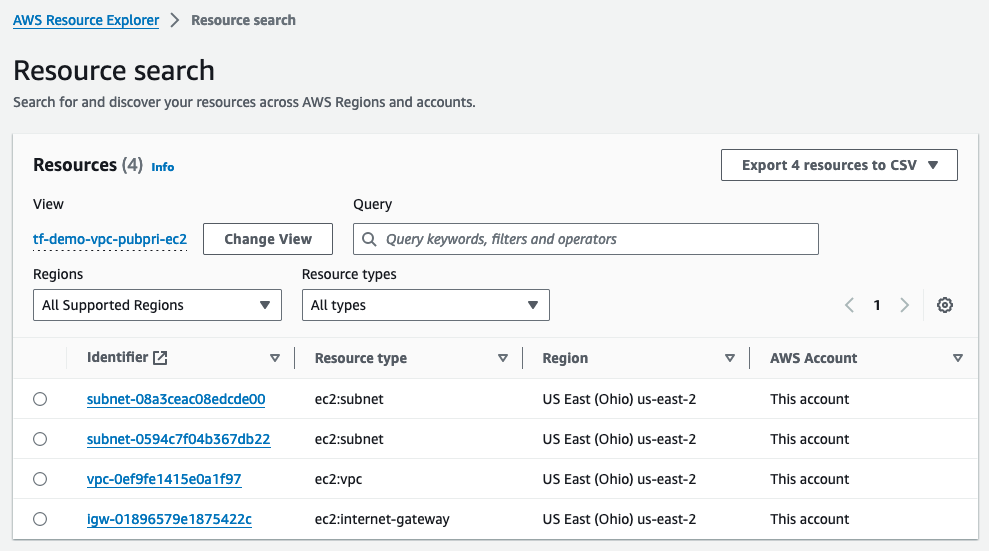
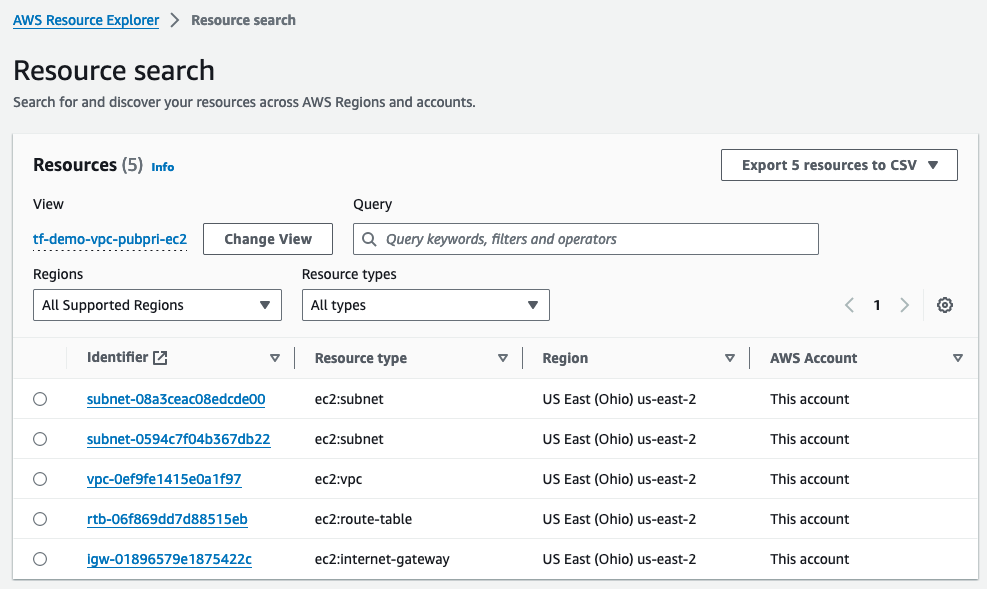
#3 - Network routing

diff --git a/README.md b/README.md
@@ -11,13 +11,15 @@ The following resources are created, INCLUDING the custom AWS Resource Explorer 
 
 - Resource Explorer View
 - Networking
-    - VPC
-    - Public Subnet
-    - Private Subnet
-    - VPC Internet Gateway
+  - VPC
+  - Public Subnet
+  - Private Subnet
+  - VPC Internet Gateway
+  - Route Table
 #### TODO:
-- Networking
-    - Route Table
+- Compute
+  - Security Groups
+  - Key Pairs
 - Compute Instances
-    - t3.micro EC2 in public subnet
-    - t3.micro EC2 in private subnet
+  - t3.micro EC2 in public subnet
+  - t3.micro EC2 in private subnet
